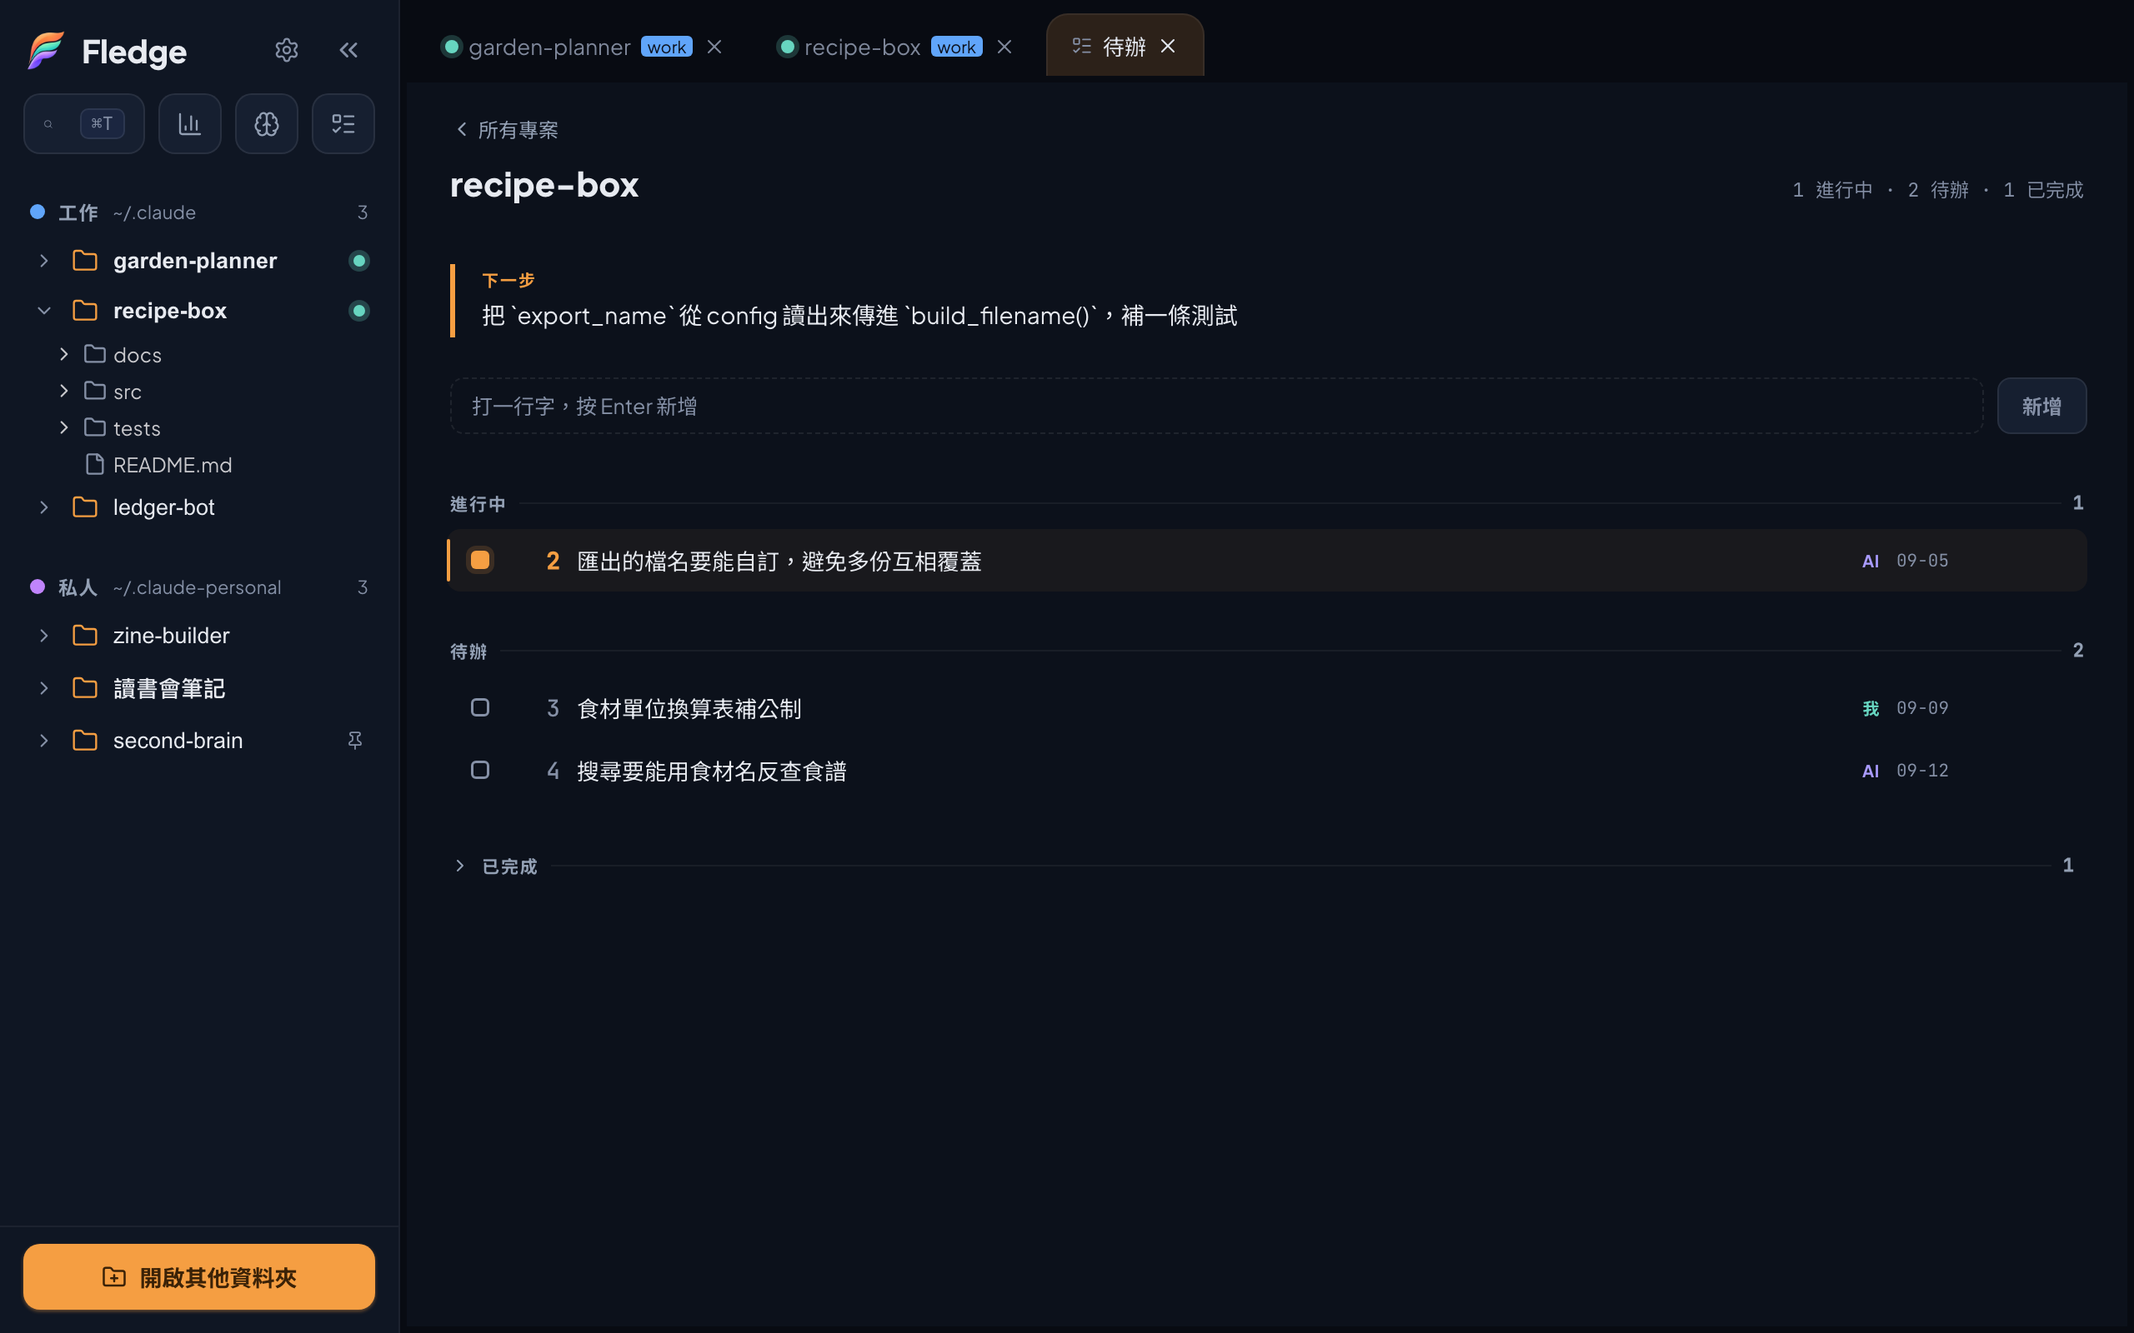
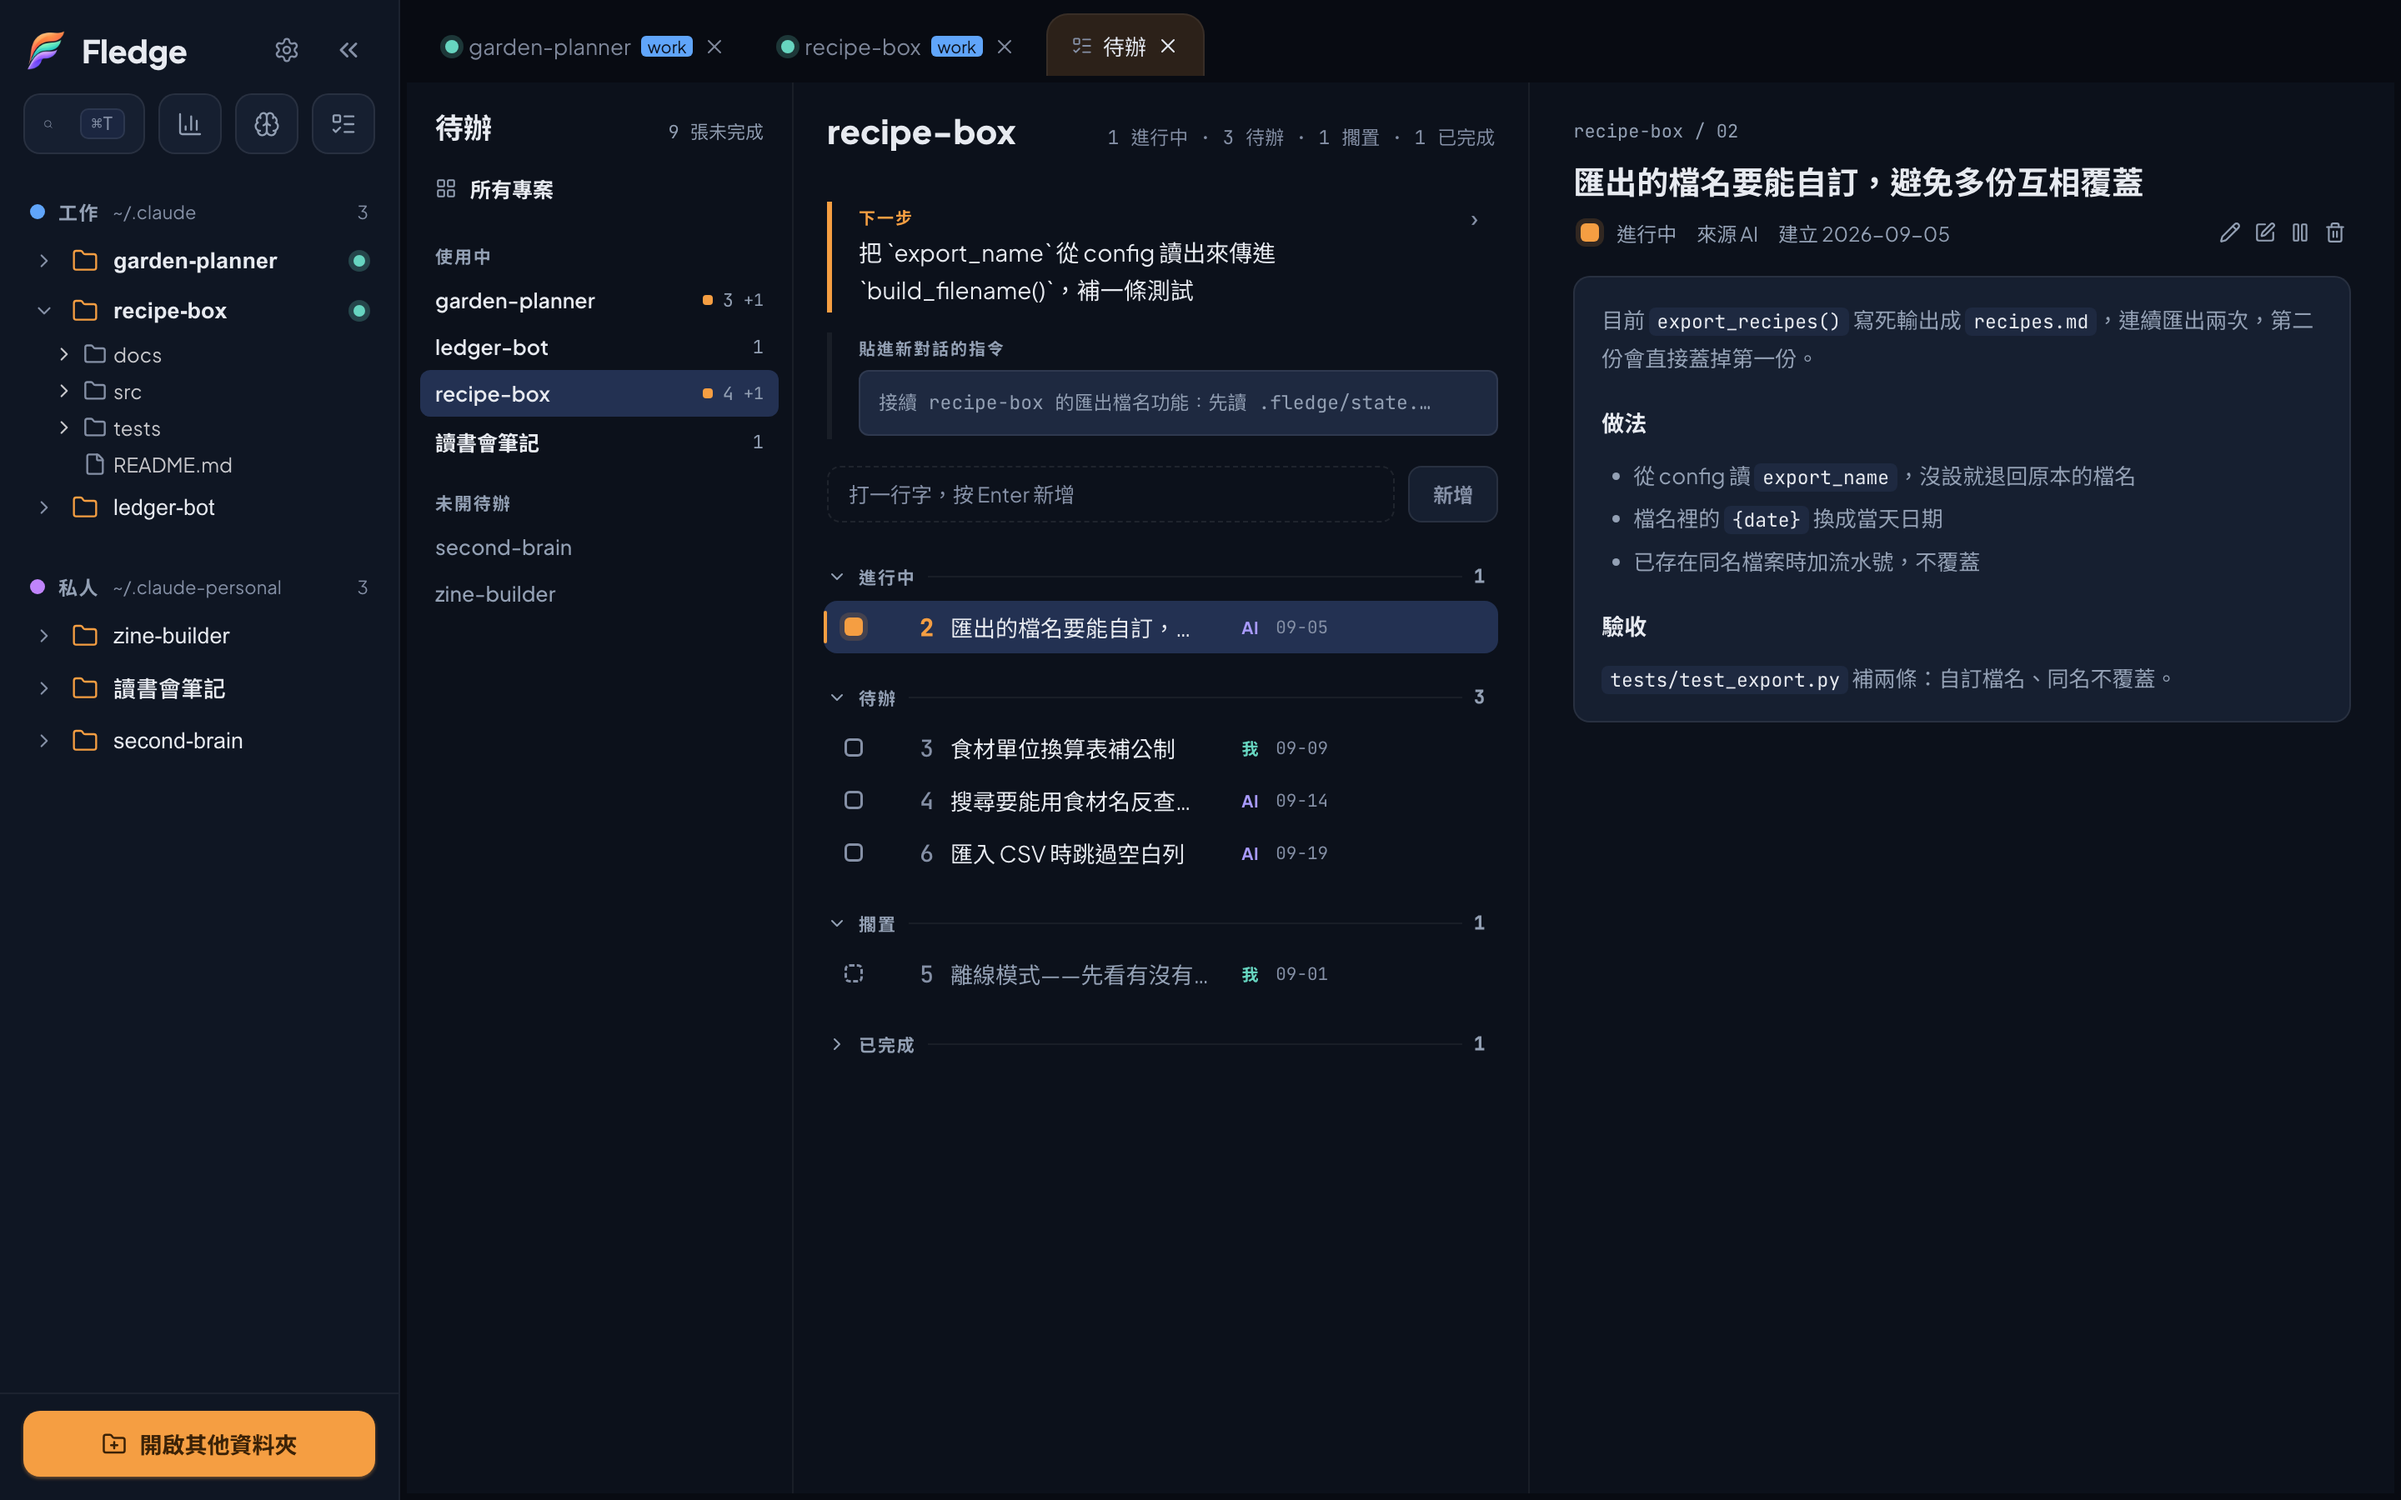
docs(readme): 待辦截圖重拍成三欄版面，文字補上專案樹、擱置、筆記可編輯（票 19 發布前置）
- screenshot-tasks.png → 「所有專案」頁（樹＋跨專案的進行中／最近新增）
- screenshot-tasks-list.png → 專案頁三欄（樹｜清單含擱置區｜右欄一張票）；README 改指這張
- 離場筆記 bullet：「下一步」現在在專案票清單頂端、點開右欄可編輯儲存；貼進新對話的指令可複製
- 待辦面板 bullet：三欄／所有專案頁／擱置／票與筆記皆在右欄編輯（只有票有草稿）
- 規劃中拿掉待辦面板那條（三項已交付）
- 兩語逐句人工對過；尺寸 1440×900@2x（1280 寬主區不到三欄門檻）

diff --git a/README.en.md b/README.en.md
@@ -101,7 +101,7 @@ Fledge doesn't touch this layer at all. Claude Code, Codex, and the other CLIs a
 
 Two things, both under the project's `.fledge/`, neither in git:
 
-- **The resume note** `.fledge/state.md` — when you wrap up, say "write the resume note" and the AI records where you're stuck, what's next, and what tripped you up. Next time, the task panel's overview pulls that "next step" line out and shows it beside the project.
+- **The resume note** `.fledge/state.md` — when you wrap up, say "write the resume note" and the AI records where you're stuck, what's next, and what tripped you up. Next time, that "next step" line sits at the top of the project's task list in the panel; click it and the whole note shows in the right column, where you can edit and save it directly. If the note ends with a "paste into a new conversation" block, the list shows it as a one-click copy.
 - **Tasks** `.fledge/tasks/NN-title.md` — one file per item. Whether you create one from the panel or from a conversation, it lands in the same stack of files.
 
 This layer needs two skills before the AI can use it (`resume-note` and `fledge-tasks`, both shipped in [`skills/`](skills/)). Without them the panel still works fully; the AI just doesn't know the format, so it can't open tasks or write notes.
@@ -131,11 +131,11 @@ One paragraph per feature. Step-by-step details live in [`guides/`](guides/).
 
 **Memory**
 
-- **Task panel** — every project's open count and "next step" on one screen. Drill in to add, cycle, or delete tasks, or edit the body right in the panel (with drafts, so switching tabs loses nothing). → [`guides/tasks-and-resume-note.en.md`](guides/tasks-and-resume-note.en.md)
+- **Task panel** — project tree on the left, task list in the middle, task body on the right, all on one screen; the "All projects" page gathers every project's in-progress and recently added tasks. Add, cycle, park (later, not counted as open), or delete tasks; task bodies and the resume note are edited right in the right column (tasks keep a draft, so switching tabs loses nothing). → [`guides/tasks-and-resume-note.en.md`](guides/tasks-and-resume-note.en.md)
 - **Memory panel** — aggregates Claude Code memory and the second brain across all accounts and projects; full-text search, grouped browsing; Fledge suggests cross-project links for you to confirm or dismiss. Opening a project floats its related topics at the bottom right of the terminal. Always read-only toward the sources. → [`guides/memory-and-second-brain.en.md`](guides/memory-and-second-brain.en.md)
 
 <p align="center">
-  <img src="assets/screenshot-tasks.png" alt="Task panel — cross-project overview and a single project's tasks" width="49%">
+  <img src="assets/screenshot-tasks-list.png" alt="Task panel — project tree, task list, and task body in three columns" width="49%">
   <img src="assets/screenshot-memory.png" alt="Memory panel — memory across accounts and projects, the second brain, cross-project links" width="49%">
   <br><sub>Left: task panel · Right: memory panel</sub>
 </p>
@@ -246,7 +246,6 @@ For packaging into `.app`/`.dmg`, see [`scripts/`](scripts/); CI is in [`.github
 - **A stable signing identity** — so Full Disk Access stops silently expiring on every update.
 - **Apple signing + notarization** — currently unsigned.
 - **Light theme** — the token layer is ready; the light palette hasn't passed visual review.
-- **Task panel** — a persistent project tree on wide screens so you don't have to go back to the overview to switch projects; a "parked" status; a copyable "paste into a new conversation" block from the resume note.
 - **Pricing gaps in the dashboard** — long-context tiers and fast-mode pricing aren't counted yet, so costs are underestimated.
 - **Re-check the backup list** — confirm that everything under `~/.claude` that should be included actually is.
 - **In-app skill install** — designed; waiting on a safe write mechanism.
